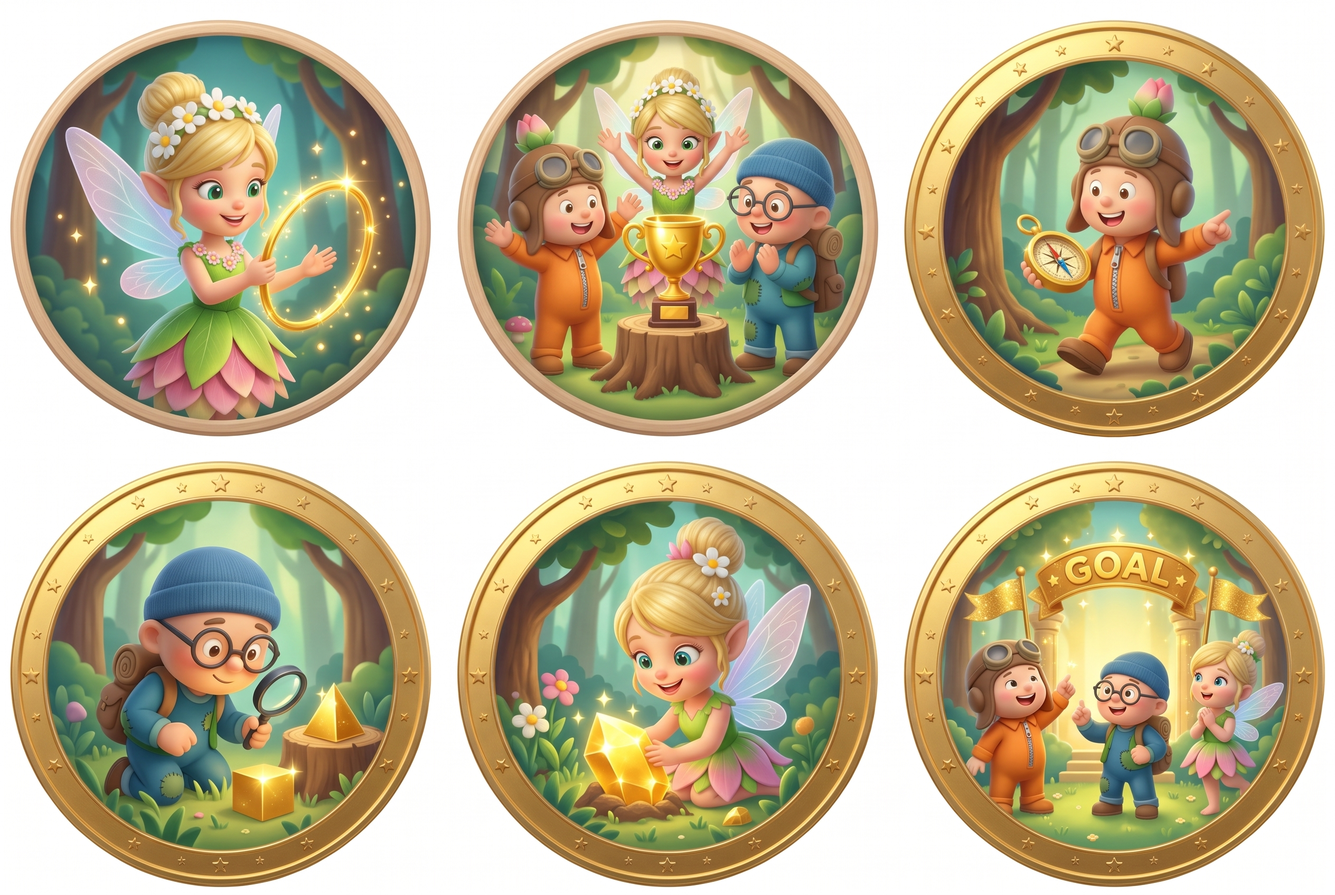
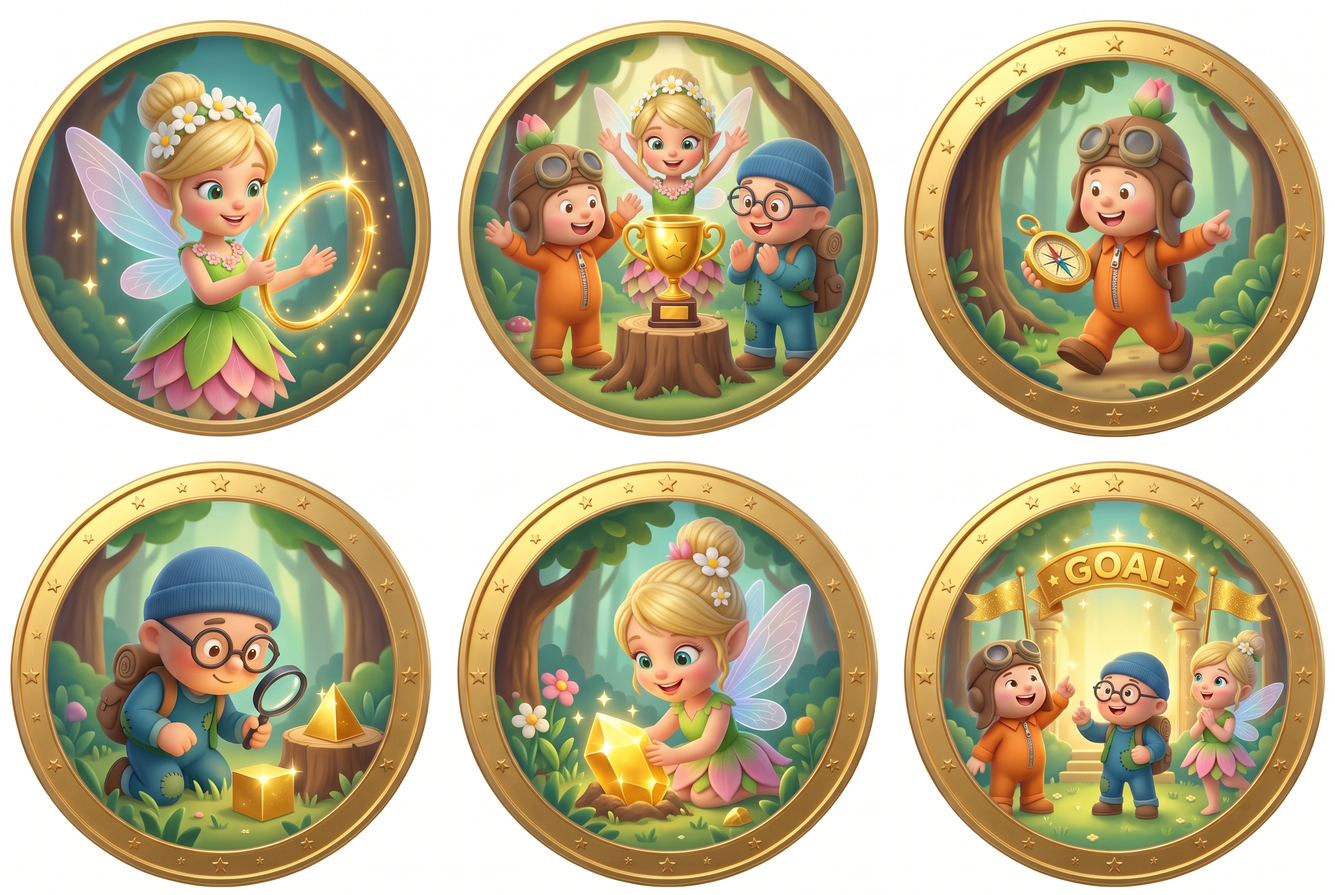
Add files via upload

diff --git a/index.html b/index.html
@@ -508,6 +508,7 @@
         .sticker-card { border: 3px solid #f0ba68; border-radius: 18px; padding: 7px; background: #fff8e6; text-align: center; box-shadow: 0 5px 0 #dc9a52; min-width: 0; }
         .sticker-card.locked { filter: grayscale(1); opacity: .56; }
         .sticker-art { width: 100%; aspect-ratio: 230 / 256; background-image: url('./assets/character_badges_18.png'); background-repeat: no-repeat; background-size: 600% 300%; border-radius: 14px; }
+        .sticker-art.base-badge-art { aspect-ratio: 1 / 1; background-size: 600% auto; }
         .sticker-art.gemini-art { aspect-ratio: 1 / 1; background-size: 300% 200%; background-color: #fff; }
         .sticker-name { font-size: clamp(10px, 2.8vw, 14px); line-height: 1.25; font-weight: 900; color: #663923; min-height: 2.5em; margin-top: 3px; }
         .sticker-card.locked .sticker-name { color: #5f5b55; }
@@ -518,6 +519,7 @@
         .sticker-art.gold-art { aspect-ratio: 1 / 1; background-size: 300% 200%; background-color: white; }
         .sticker-art.advanced-art { aspect-ratio: 1 / 1; background-size: 300% 200%; background-color: #fff; }
         .sticker-art.junior-art { aspect-ratio: 1 / 1; background-size: 300% 200%; background-color: #fff; }
+        .sticker-art.junior-art.legacy-junior-art { aspect-ratio: 1 / 1; margin-block: 0; transform: scaleY(0.838); transform-origin: center; }
         #sticker-grade-tabs { display: grid; grid-template-columns: repeat(3, minmax(0, 1fr)); gap: 8px; margin: 0 auto 16px; max-width: 720px; }
         .sticker-grade-tab { padding: 10px 4px; border: 2px solid #e8b963; border-radius: 14px; background: #fff6dc; color: #713424; font-weight: 900; box-shadow: 0 3px 0 #d6954f; }
         .sticker-grade-tab.active { background: #f177a7; color: #fff; border-color: #d74787; box-shadow: 0 3px 0 #ac3267; }
@@ -1158,7 +1160,12 @@
             const card = document.createElement('div');
             card.className = `sticker-card${sticker.gold ? ' gold-sticker' : ''}${unlocked ? '' : ' locked'}`;
             const art = document.createElement('div');
-            art.className = `sticker-art${sticker.advanced ? ' advanced-art' : sticker.junior ? ' junior-art' : sticker.gold ? ' gold-art' : sticker.sheet ? ' gemini-art' : ''}`;
+            art.className = `sticker-art${sticker.advanced ? ' advanced-art' : sticker.junior ? ' junior-art' + (sticker.sheet <= 6 ? ' legacy-junior-art' : '') : sticker.gold ? ' gold-art' : sticker.sheet ? ' gemini-art' : ''}`;
+            if (!sticker.sheet) art.classList.add('base-badge-art');
+            if (sticker.junior && sticker.sheet <= 6) {
+                art.style.aspectRatio = '1';
+                art.style.transform = 'scaleY(0.838)';
+            }
             if (sticker.sheet) {
                 art.style.backgroundImage = sticker.advanced
                     ? `url('./assets/advanced_stickers_0${sticker.sheet}${sticker.sheet === 6 ? '_v2' : ''}.jpg')`
@@ -1169,7 +1176,7 @@
                     : `url('./assets/gemini_stickers_0${sticker.sheet}.jpg')`;
                 art.style.backgroundPosition = `${(sticker.index % 3) * 50}% ${Math.floor(sticker.index / 3) * 100}%`;
             } else {
-                art.style.backgroundPosition = `${(sticker.index % 6) * 20}% ${Math.floor(sticker.index / 6) * 50}%`;
+                art.style.backgroundPosition = ((sticker.index % 6) * 20) + '% ' + [2.5, 50, 97.5][Math.floor(sticker.index / 6)] + '%';
             }
             art.setAttribute('role', 'img');
             art.setAttribute('aria-label', unlocked ? sticker.name : 'まだ集めていないシール');
